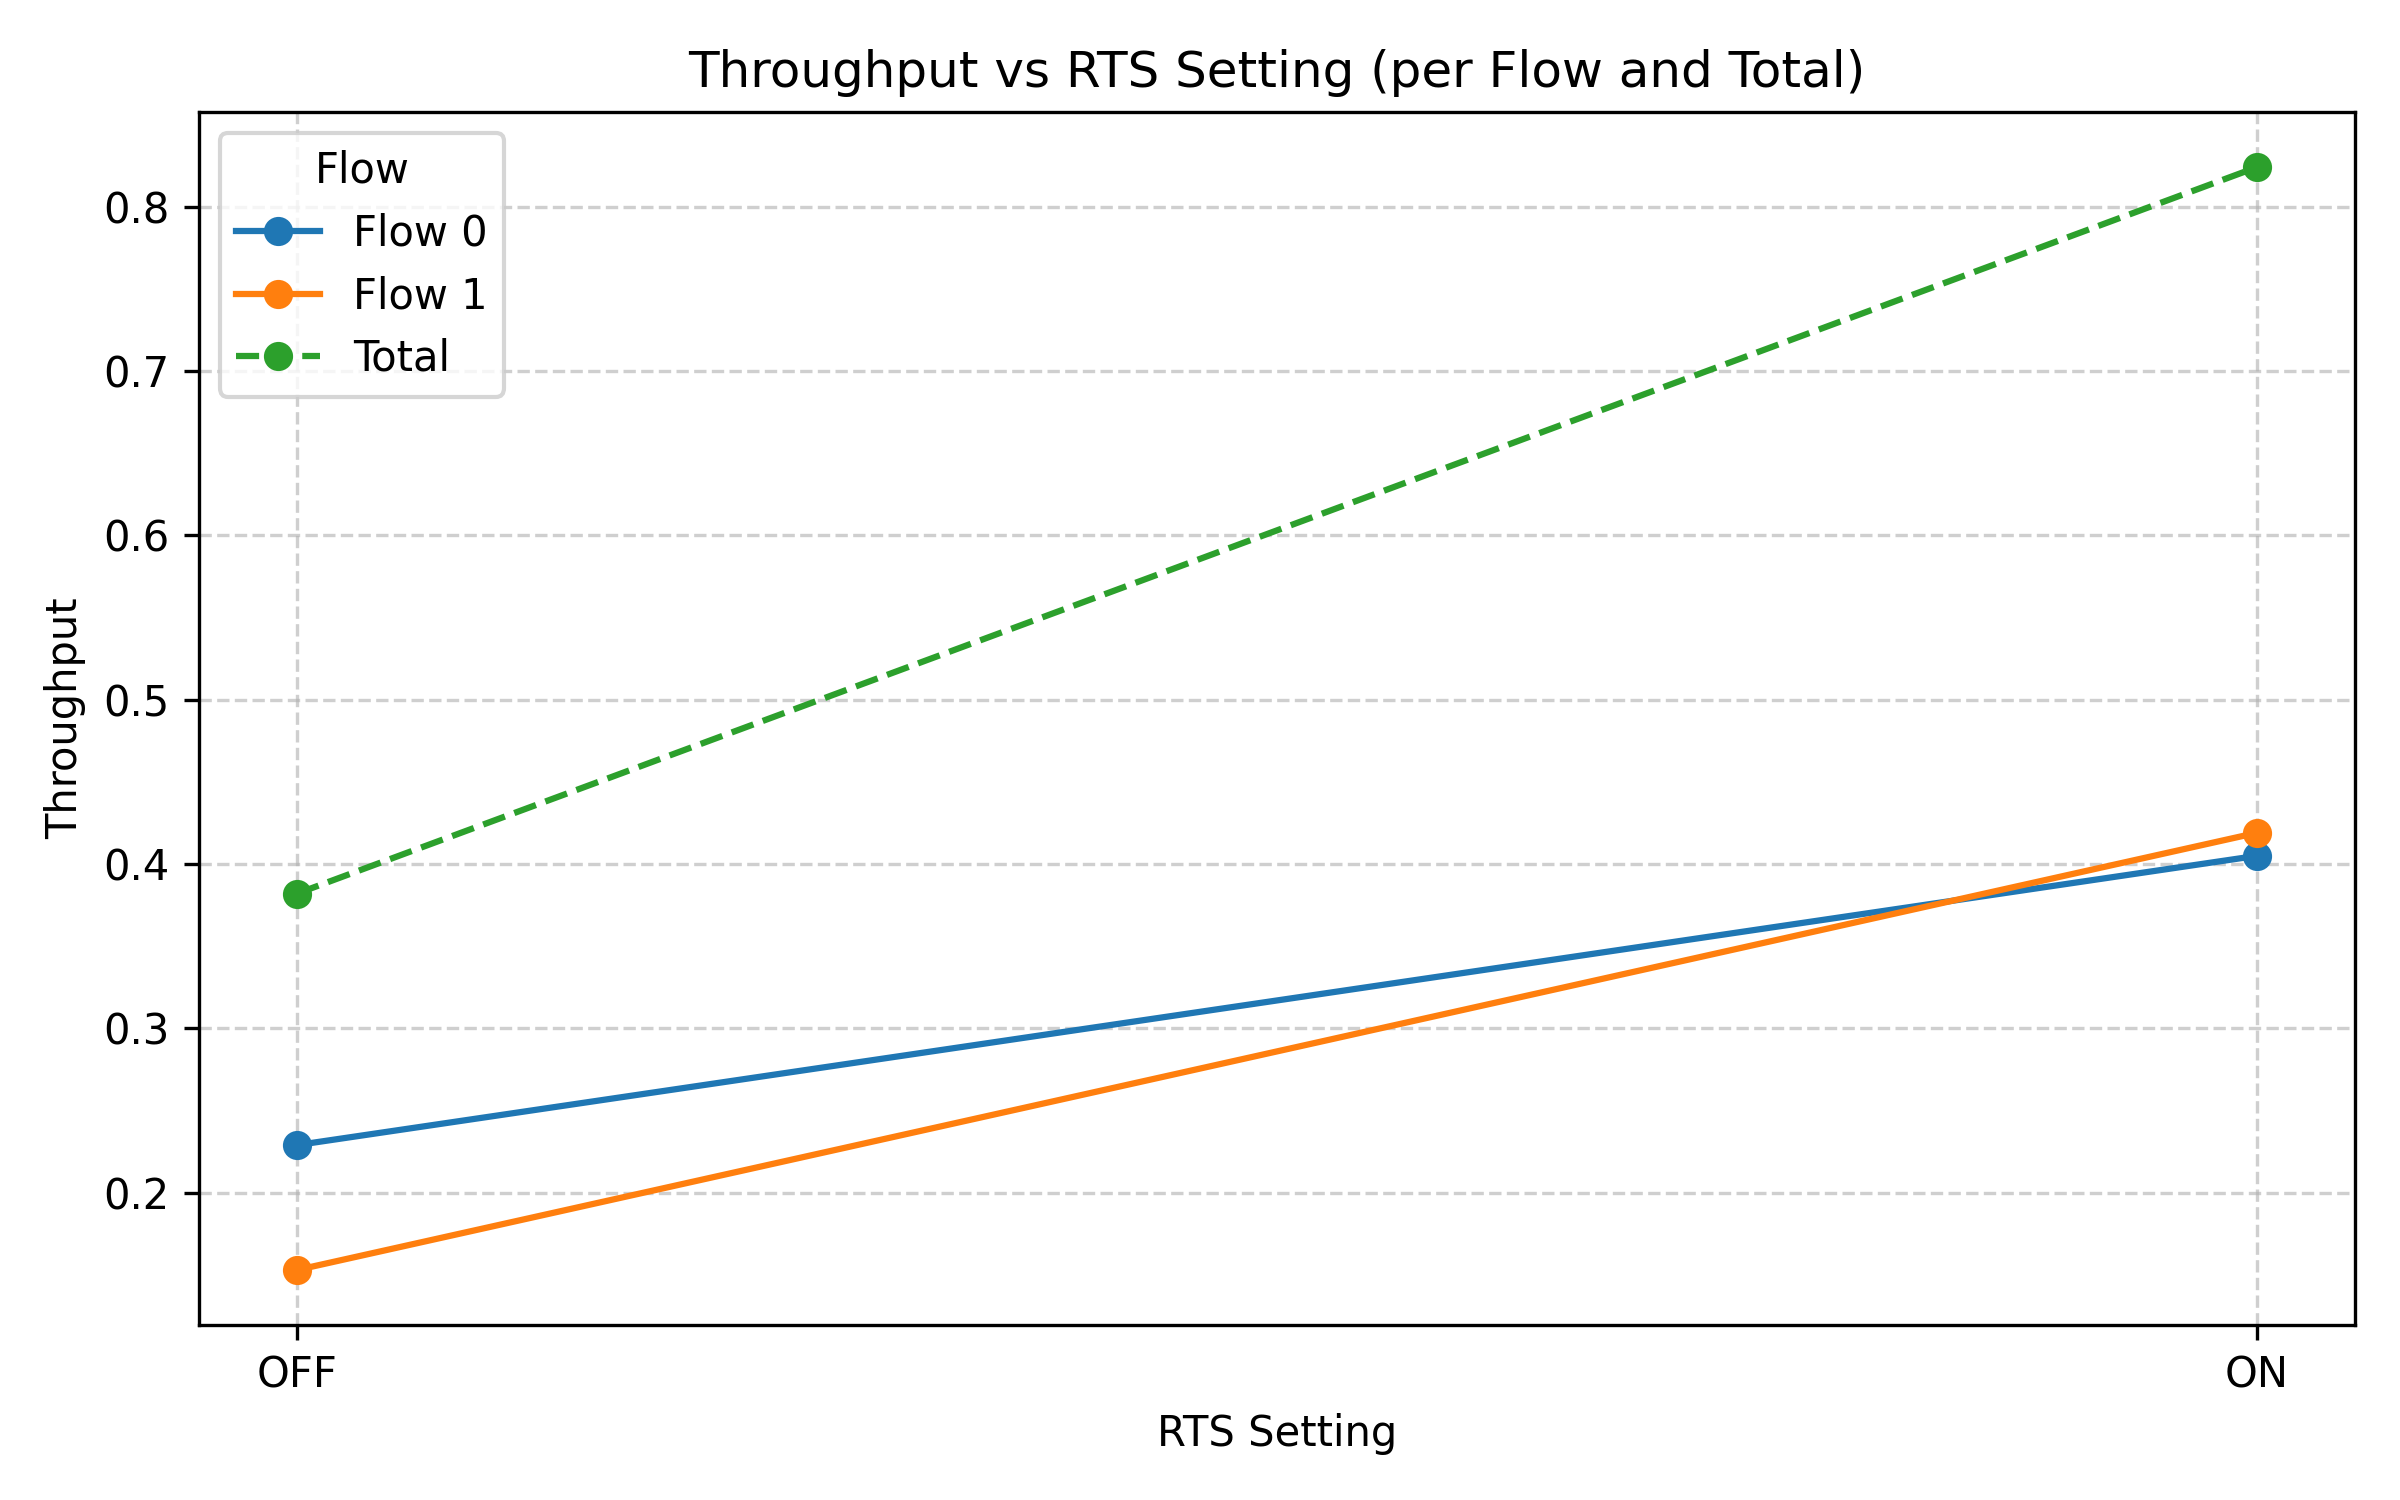
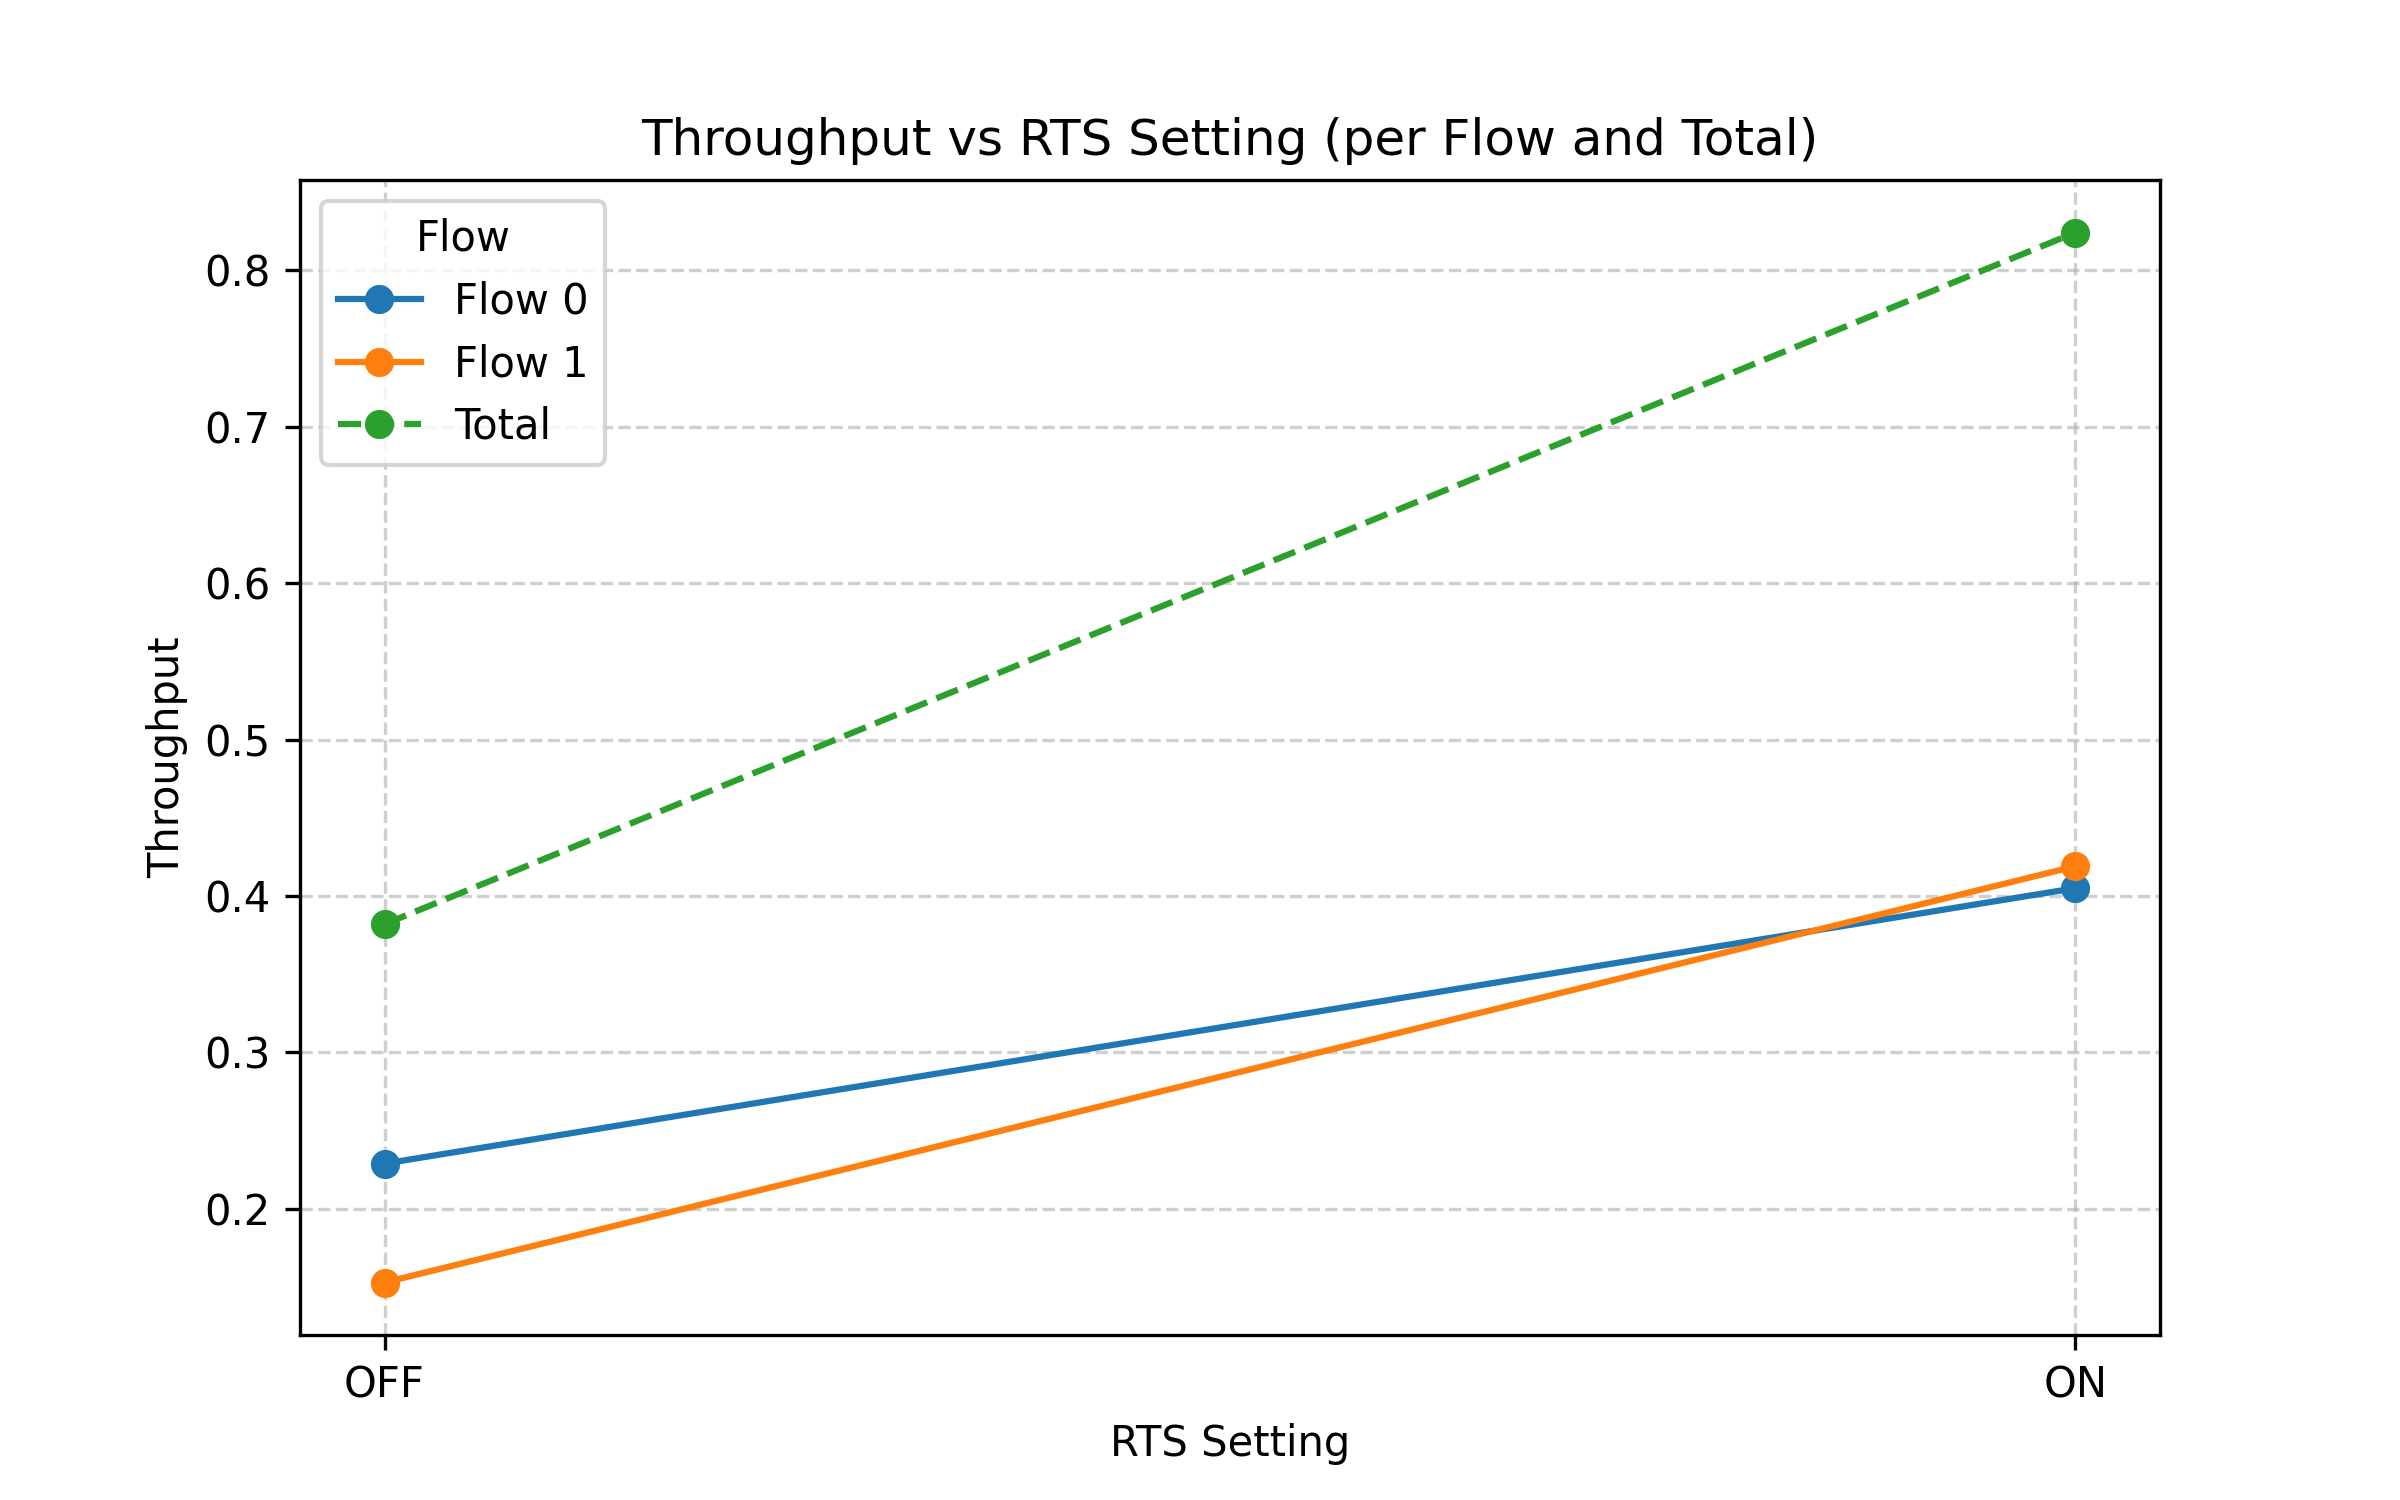
lab 3 done

diff --git a/Lab-03-Adhoc/plots/hidden.py b/Lab-03-Adhoc/plots/hidden.py
@@ -15,28 +15,44 @@ df = pd.read_csv(csv)
 
 # Calculate total throughput
 df['throughput_total'] = df['throughput_f0'] + df['throughput_f1']
+df['pdr_avg'] = (df['pdr_f0'] + df['pdr_f1']) / 2
 
 # Ensure correct order (OFF, ON)
 df['rts'] = pd.Categorical(df['rts'], categories=['OFF', 'ON'], ordered=True)
 df = df.sort_values('rts')
 
 # Plot
-plt.figure(figsize=(8, 5))
+fig, ax = plt.subplots(figsize=(8, 5))
 
-plt.plot(df['rts'], df['throughput_f0'], marker='o', label='Flow 0')
-plt.plot(df['rts'], df['throughput_f1'], marker='o', label='Flow 1')
-plt.plot(df['rts'], df['throughput_total'], marker='o', linestyle='--', label='Total')
+ax.plot(df['rts'], df['throughput_f0'], marker='o', label='Flow 0')
+ax.plot(df['rts'], df['throughput_f1'], marker='o', label='Flow 1')
+ax.plot(df['rts'], df['throughput_total'], marker='o', linestyle='--', label='Total')
 
 # Labels and styling
-plt.xlabel('RTS Setting')
-plt.ylabel('Throughput')
-plt.title('Throughput vs RTS Setting (per Flow and Total)')
-plt.legend(title='Flow')
-plt.grid(True, linestyle='--', alpha=0.6)
-plt.tight_layout()
+ax.set_xlabel('RTS Setting')
+ax.set_ylabel('Throughput')
+ax.set_title('Throughput vs RTS Setting (per Flow and Total)')
+ax.legend(title='Flow')
+ax.grid(True, linestyle='--', alpha=0.6)
 
 outfile = outd / "hidden.png"
-plt.savefig(outfile, dpi=300)
+fig.savefig(outfile, dpi=300)
+
+# PDR Plot
+fig, ax = plt.subplots(figsize=(8, 5))
+
+ax.plot(df['rts'], df['pdr_f0'], marker='o', label='Flow 0')
+ax.plot(df['rts'], df['pdr_f1'], marker='o', label='Flow 1')
+ax.plot(df['rts'], df['pdr_avg'], marker='o', linestyle='--', label='Average')
+
+ax.set_xlabel('RTS Setting')
+ax.set_ylabel('PDR')
+ax.set_title('PDR vs RTS Setting (per Flow and Average)')
+ax.legend(title='Flow')
+ax.grid(True, linestyle='--', alpha=0.6)
+
+outfile = outd / "hidden_pdr.png"
+fig.savefig(outfile, dpi=300)
 
 # Show the plot
 plt.show()
